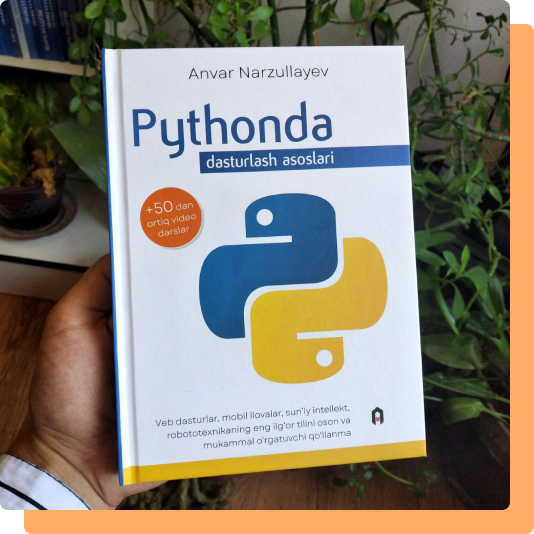
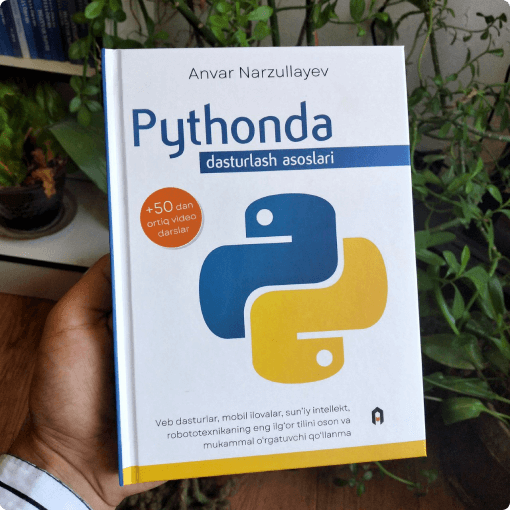
update

diff --git a/css/main.css b/css/main.css
@@ -248,10 +248,15 @@ body {
   max-height: 488px;
   padding-top: 40px;
 }
+@media only screen and (max-width: 992px) {
+  .hero-section .hero {
+    max-height: 428px;
+  }
+}
 @media only screen and (max-width: 768px) {
   .hero-section .hero {
     padding: 0 10px;
-    max-width: none;
+    max-height: 368px;
   }
 }
 @media only screen and (max-width: 576px) {
@@ -259,8 +264,9 @@ body {
     flex-direction: column-reverse;
     align-items: center;
     justify-content: space-between;
+    padding: 35px 15px 30px;
     max-height: none;
-    padding: 20px 15px 30px;
+    gap: 30px;
   }
 }
 .hero-section .hero-content {
@@ -334,6 +340,7 @@ body {
 .hero-section .hero__img {
   max-width: 510px;
   max-height: 510px;
+  filter: drop-shadow(24px 24px 0px rgba(255, 117, 0, 0.6));
 }
 @media only screen and (max-width: 992px) {
   .hero-section .hero__img {
@@ -342,6 +349,7 @@ body {
     width: 100%;
     -o-object-fit: contain;
        object-fit: contain;
+    filter: drop-shadow(20px 20px 0px rgba(255, 117, 0, 0.6));
   }
 }
 @media only screen and (max-width: 576px) {
@@ -350,6 +358,7 @@ body {
     max-height: none;
     width: 90%;
     height: auto;
+    filter: drop-shadow(16px 16px 0px rgba(255, 117, 0, 0.6));
   }
 }
 

diff --git a/scss/blocks/_hero.scss b/scss/blocks/_hero.scss
@@ -7,17 +7,22 @@
     max-height: 488px;
     padding-top: 40px;
 
+    @media only screen and (max-width: $tablet-l) {
+      max-height: 428px;
+    }
+
     @media only screen and (max-width: $tablet) {
       padding: 0 10px;
-      max-width: none;
+      max-height: 368px;
     }
 
     @media only screen and (max-width: $mobile) {
       flex-direction: column-reverse;
       align-items: center;
       justify-content: space-between;
+      padding: 35px 15px 30px;
       max-height: none;
-      padding: 20px 15px 30px;
+      gap: 30px;
     }
 
     &-content {
@@ -90,12 +95,14 @@
     &__img {
       max-width: 510px;
       max-height: 510px;
+      filter: drop-shadow(24px 24px 0px rgba(255, 117, 0, 0.6));
 
       @media only screen and (max-width: $tablet-l) {
         max-width: 440px;
         max-height: 440px;
         width: 100%;
         object-fit: contain;
+        filter: drop-shadow(20px 20px 0px rgba(255, 117, 0, 0.6));
       }
 
       @media only screen and (max-width: $mobile) {
@@ -103,6 +110,7 @@
         max-height: none;
         width: 90%;
         height: auto;
+        filter: drop-shadow(16px 16px 0px rgba(255, 117, 0, 0.6));
       }
     }
   }
